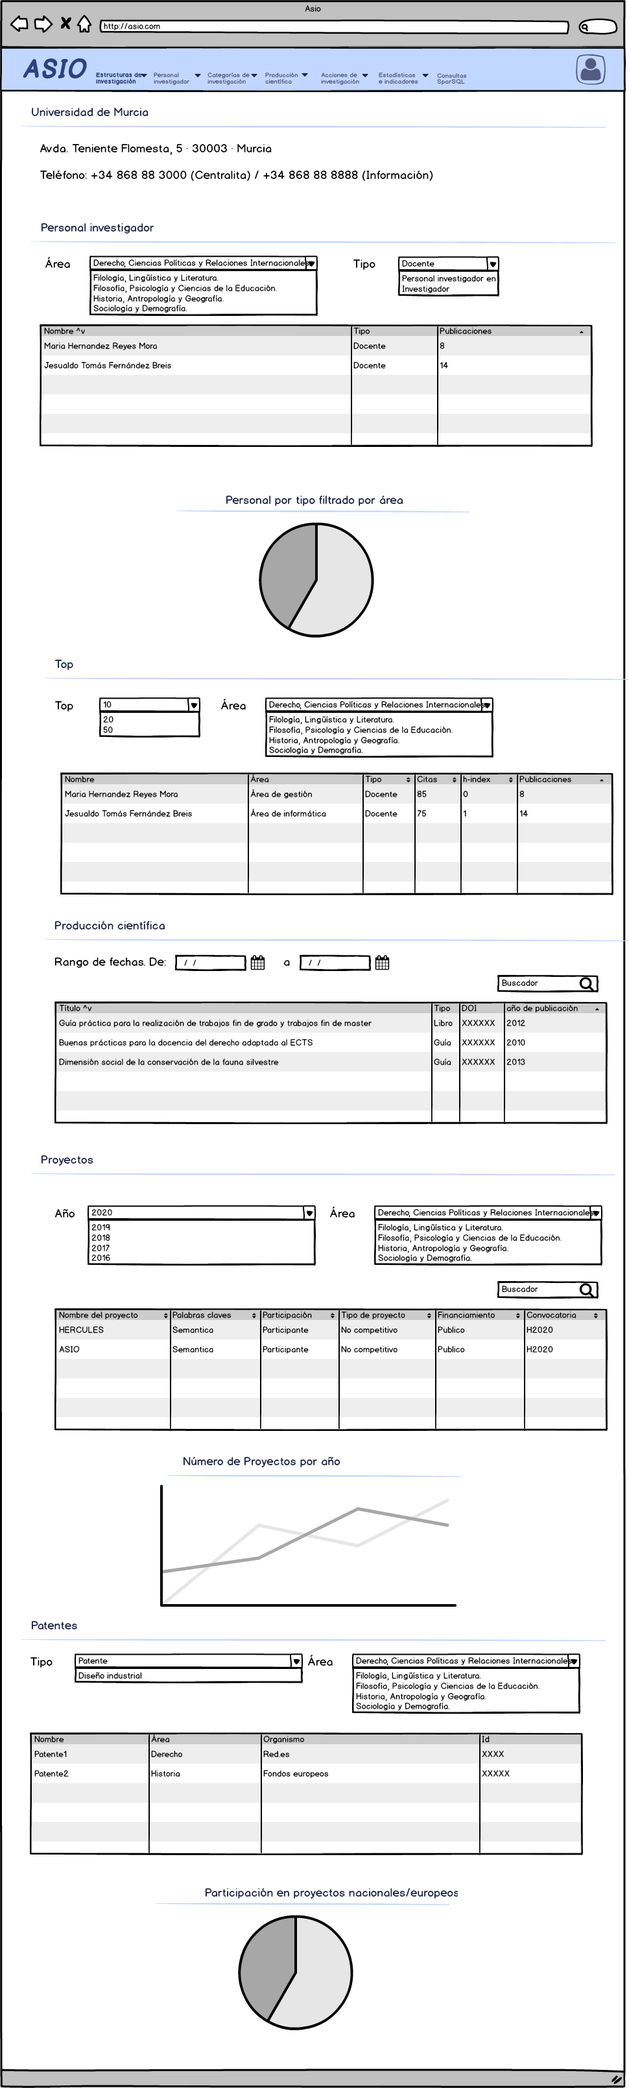
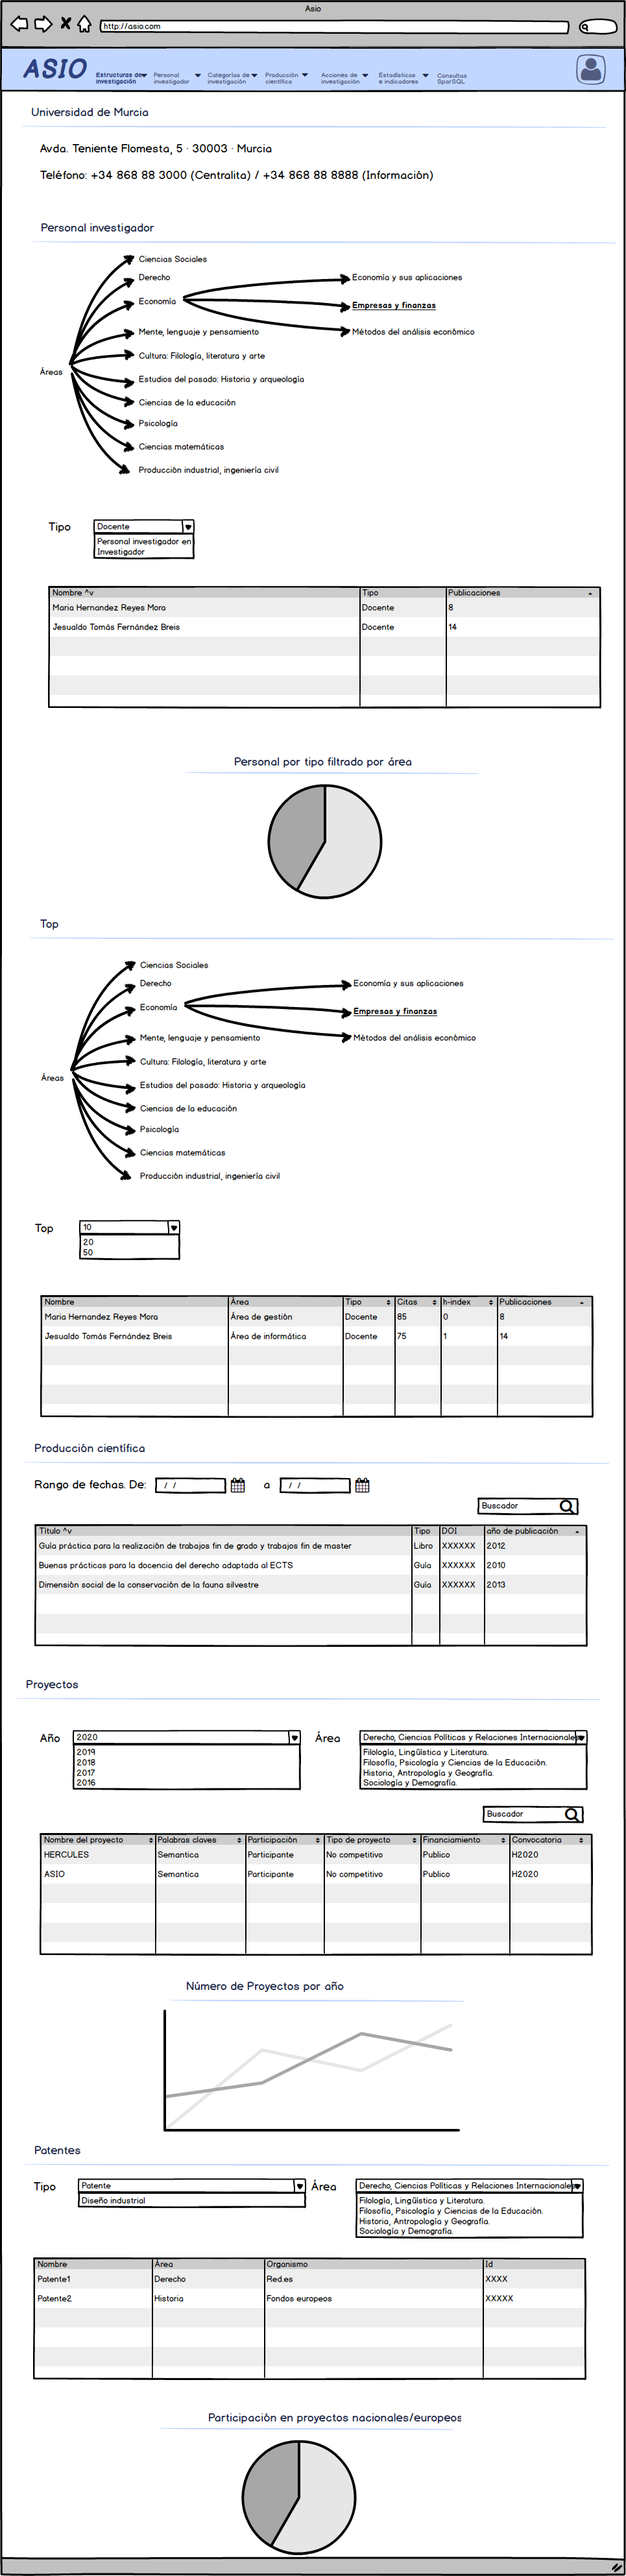
[SEMANTMURC-375] Modificar Propuesta de Categorías

Changed region(s): [[0.0, 0.0, 1.0, 1.0], [0.0933, 0.3107, 0.1244, 0.3417]]

diff --git a/00-Análisis/Diseño de pantallas/Categorías y buscador.md b/00-Análisis/Diseño de pantallas/Categorías y buscador.md
@@ -12,11 +12,15 @@
 
 [2. Buscador](#buscador)
 
-[3. Centros de investigación](#centros-de-investigación)
+[3. Categorías](#categorías)
 
-[4. Acciones de transferencia](#acciones-de-transferencia)
+[3.1. Centros de investigación](#centros-de-investigación)
 
-[5. Detalle de proyecto](#detalle de proyecto)
+[3.2. Detalle de centro de investigación](#detalle-de-centro-de-investigación)
+
+[3.3. Acciones de transferencia](#acciones-de-transferencia)
+
+[3.4 Detalle de proyecto](#detalle de proyecto)
 
 
 
@@ -30,7 +34,6 @@ El home de la web dispondrá de un menú superior con los accesos a las diferent
 Dentro del propio Home se podrán ver:
 
 - Buscador general de datos públicos
-- Los servicios de los que dispone la web, como las consultas SparQL.
 - Las categorías, que serían:
   - Estructuras de investigación:
     - Centros
@@ -55,6 +58,7 @@ Dentro del propio Home se podrán ver:
     - Indicadores / tendencias (trends)
     - Financiación (funding) / calidad / estadísticas
     - Búsqueda de partners / estado de la técnica (state of the art)
+- Los servicios de los que dispone la web, como las consultas SparQL y gestiones propias de usuarios administradores. Por ejemplo la gestión de usuarios, que sólo sería visible para usuarios de tipo Gestor Asio.
 - Al final de la página se mostrarán los enlaces a información del proyecto en general:
   - Repositorios
   - Validadores
@@ -94,7 +98,21 @@ Al realizar una búsqueda, la página redireccionará  a otra nueva página, don
 
 
 
-# Centros de investigación
+
+
+# Categorías
+
+
+
+En cada categoría se mostrarán una serie de filtros, algunos comunes para varias categorías.
+
+Para el filtro por áreas, se utilizará un componente para mostrar un árbol y se utilizará el módulo vertical "[subject áreas](https://github.com/weso/hercules-ontology/blob/master/src/asio-module-subjectareas.ttl)":
+
+![](./images/areas.png)
+
+
+
+## Centros de investigación
 
 
 
@@ -126,7 +144,7 @@ La información que se mostrará en esta página tratará de responder, entre ot
 
 ## Detalle de centro de investigación
 
-Pulsando sobre un centro de investigación en la pantalla de esta categoría, la web nos redirigirá a la información de ese centro de investigación.
+Pulsando sobre un centro de investigación en la pantalla de esta categoría, la web nos redirigirá a la información de ese centro de investigación. Para facilitar la visualización de los datos sobre el centro de investigación, la información se mostrará agrupada por [tabs](https://getbootstrap.com/docs/4.0/components/navs/).
 
 ![Detalle de centro de investigación](./images/mocks/detalle-universidad.png)
 
@@ -147,13 +165,13 @@ En esta pantalla se responderá a las siguientes preguntas de competencia:
 
 
 
-# Acciones de investigación
+## Acciones de investigación
 
-Por ahora hemos categorizado las acciones de investigación en tres subcategorías:
+Se mostrará un filtro, en forma de árbol al igual que las áreas, en el que se mostrarán los distintos tipos y subtipos de acciones de investigación posibles, todas subclases de la clase [Document](https://github.com/weso/hercules-ontology/blob/master/src/asio-core.ttl) de la ontología.
 
-- Proyectos
-- Acciones de transferencia / Startups / spinoffs
-- Patentes
+![](./images/document-protege.png)
+
+
 
 Estas podrán ser seleccionables en el menú superior, o en el filtro de la propia categoría acciones de investigación.
 
